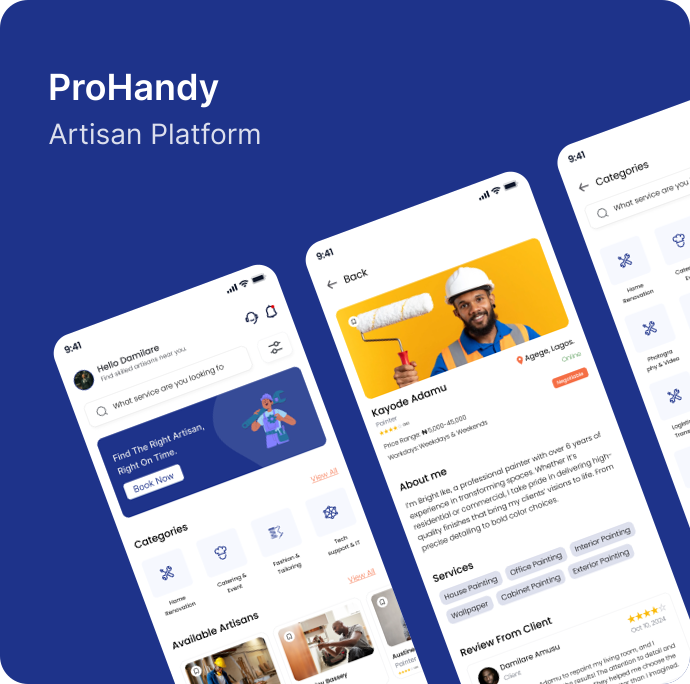
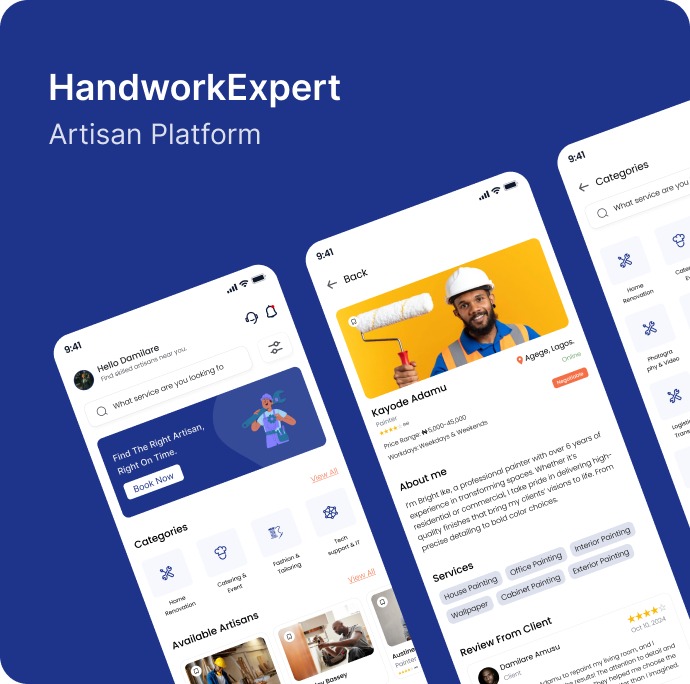
fix: update alt text for HandworkExpert image in design approach section

diff --git a/src/components/sections/design-approach.tsx b/src/components/sections/design-approach.tsx
@@ -43,7 +43,7 @@ export function DesignApproach() {
 				<RevealItem direction="left">
 					<Image
 						src={designApproachImg}
-						alt="A Sabiwork user booking an artisan from their phone"
+						alt="A HandworkExpert user booking an artisan from their phone"
 						sizes="(min-width: 1024px) 573px, calc(100vw - 48px)"
 						className="w-full"
 					/>
